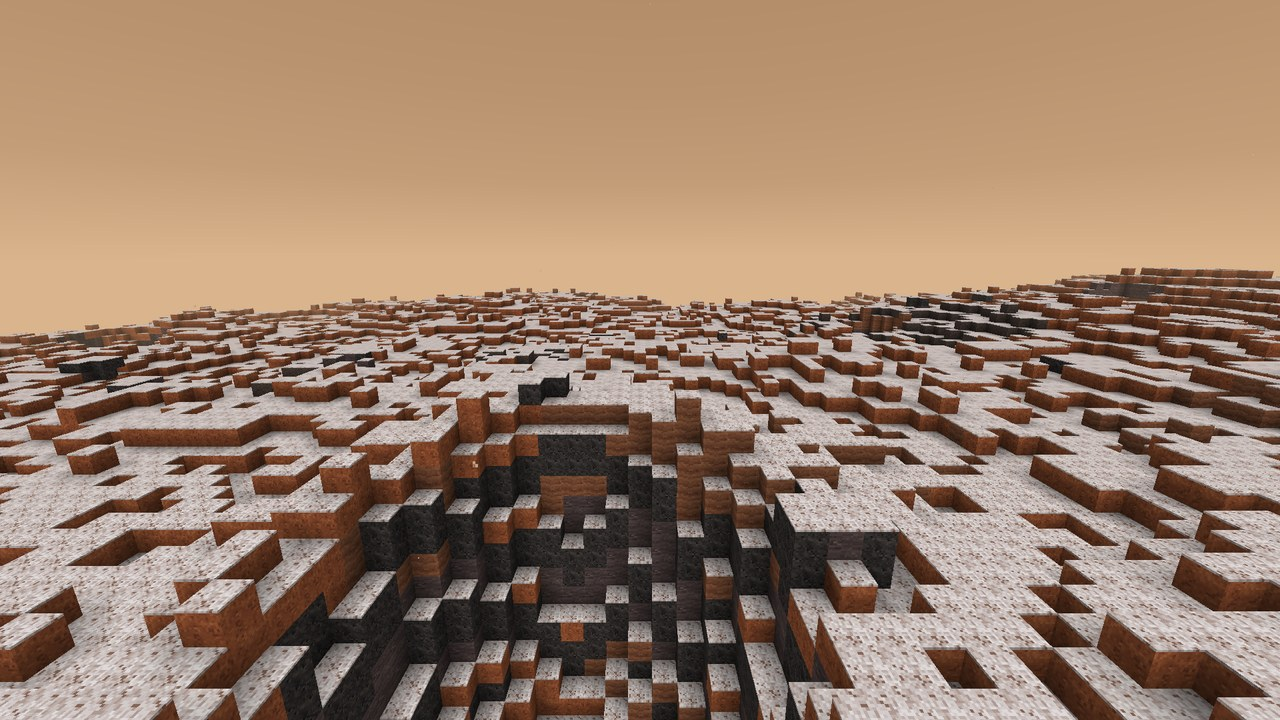
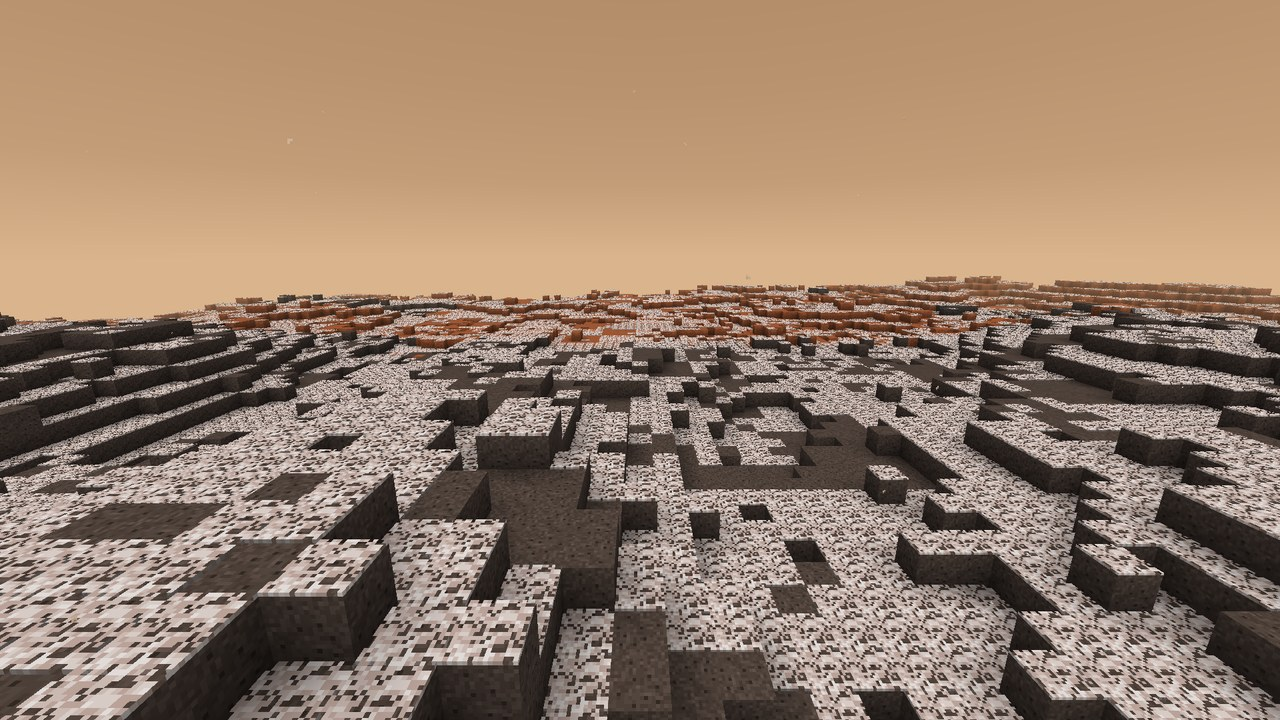
Seasonal frost: thin dusty-pink coat, patchy at the cap edge
The frost layer gets its own cutout texture: pale pink, dusty crystals
with the ground showing through. Cover now thickens from sparse patches
(30 %) at the cap edge to a full coat ten degrees inside it, with a
thinner scatter on nights; each column has a fixed patch value, so frost
grows and fades in clumps instead of flickering.

diff --git a/src/testmod/java/com/pizzaparker07/spacebreaker/testmod/mars/MarsLifeGameTests.java b/src/testmod/java/com/pizzaparker07/spacebreaker/testmod/mars/MarsLifeGameTests.java
@@ -427,11 +427,24 @@ public final class MarsLifeGameTests {
         helper.assertTrue(Math.abs(winterEdge - 52) < 1e-6, "northern winter cap reaches 52°, got " + winterEdge);
         helper.assertTrue(com.pizzaparker07.spacebreaker.content.mars.MarsSeasons.capEdge(270, false) == 82, "southern summer: residual cap only");
         helper.assertTrue(com.pizzaparker07.spacebreaker.content.mars.MarsSeasons.capEdge(90, false) < 53, "southern winter cap spreads too");
-        helper.assertTrue(com.pizzaparker07.spacebreaker.content.mars.MarsSeasons.wantsFrost(60, 270, false), "frost on the winter cap by day");
-        helper.assertFalse(com.pizzaparker07.spacebreaker.content.mars.MarsSeasons.wantsFrost(45, 270, false), "no daytime frost beyond the cap");
-        helper.assertTrue(com.pizzaparker07.spacebreaker.content.mars.MarsSeasons.wantsFrost(45, 270, true), "night frost beyond the cap");
-        helper.assertFalse(com.pizzaparker07.spacebreaker.content.mars.MarsSeasons.wantsFrost(60, 90, true), "none in northern summer");
-        helper.assertTrue(com.pizzaparker07.spacebreaker.content.mars.MarsSeasons.wantsFrost(-60, 90, false), "but on the southern winter cap");
+        var S = new Object() {
+            double cov(double lat, double ls, boolean night) {
+                return com.pizzaparker07.spacebreaker.content.mars.MarsSeasons.coverage(lat, ls, night);
+            }
+        };
+        helper.assertTrue(S.cov(75, 270, false) == 1, "deep in the winter cap the ground is fully frosted");
+        double edge = S.cov(53, 270, false);
+        helper.assertTrue(edge > 0.25 && edge < 0.5, "at the cap edge only patches, got " + edge);
+        helper.assertTrue(S.cov(45, 270, false) == 0, "no daytime frost beyond the cap");
+        double night = S.cov(45, 270, true);
+        helper.assertTrue(night > 0 && night < edge, "a thin night scatter beyond the cap, got " + night);
+        helper.assertTrue(S.cov(60, 90, true) == 0, "none in northern summer");
+        helper.assertTrue(S.cov(-70, 90, false) > 0.9, "but on the southern winter cap");
+        int frosted = 0;
+        for (int i = 0; i < 4000; i++) {
+            frosted += com.pizzaparker07.spacebreaker.content.mars.MarsSeasons.wantsFrost(i * 7, i * 13 % 997, 53, 270, false) ? 1 : 0;
+        }
+        helper.assertTrue(Math.abs(frosted / 4000.0 - edge) < 0.08, "patches cover about that share of the ground, got " + frosted / 4000.0);
         helper.assertTrue(com.pizzaparker07.spacebreaker.content.mars.MarsSeasons.season(275) == 3, "Ls 275 is northern winter");
 
         ServerLevel level = helper.getLevel();

diff --git a/src/main/java/com/pizzaparker07/spacebreaker/content/mars/MarsSeasons.java b/src/main/java/com/pizzaparker07/spacebreaker/content/mars/MarsSeasons.java
@@ -66,11 +66,39 @@ public final class MarsSeasons {
         return SUMMER_EDGE - WINTER_SPREAD * winter(ls, north);
     }
 
-    /** Whether frost belongs on open ground at this latitude (positive north). */
-    public static boolean wantsFrost(double latitude, double ls, boolean night) {
-        double edge = capEdge(ls, latitude >= 0);
-        double a = Math.abs(latitude);
-        return a >= edge || (night && a >= edge - NIGHT_REACH);
+    /** Degrees inside the cap edge over which the frost thickens from sparse patches to a full cover. */
+    public static final double THICKEN = 10;
+    /** Share of the ground frosted right at the cap edge. */
+    public static final double EDGE_COVER = 0.3;
+
+    /**
+     * Share of the open ground (0..1) that frost covers at this latitude (positive north): full well inside the cap,
+     * patchy at its edge, and on nights a thin scatter reaching {@link #NIGHT_REACH} beyond it.
+     */
+    public static double coverage(double latitude, double ls, boolean night) {
+        double depth = Math.abs(latitude) - capEdge(ls, latitude >= 0);
+        if (depth >= 0) {
+            return EDGE_COVER + (1 - EDGE_COVER) * Mth.clamp(depth / THICKEN, 0, 1);
+        }
+        return night && depth > -NIGHT_REACH ? EDGE_COVER * (1 + depth / NIGHT_REACH) : 0;
+    }
+
+    /** A fixed 0..1 value per column, clumped into patches a few blocks wide, so frost forms and fades in patches. */
+    public static double patch(int x, int z) {
+        double coarse = hash(Math.floorDiv(x, 4), Math.floorDiv(z, 4));
+        return 0.7 * coarse + 0.3 * hash(x, z);
+    }
+
+    private static double hash(int x, int z) {
+        long h = x * 0x9E3779B97F4A7C15L ^ z * 0xC2B2AE3D27D4EB4FL;
+        h = (h ^ (h >>> 31)) * 0xBF58476D1CE4E5B9L;
+        h ^= h >>> 29;
+        return (h >>> 11) * 0x1.0p-53;
+    }
+
+    /** Whether frost belongs on the open ground of this column. */
+    public static boolean wantsFrost(int x, int z, double latitude, double ls, boolean night) {
+        return patch(x, z) < coverage(latitude, ls, night);
     }
 
     /** Season index 0..3 (northern spring, summer, autumn, winter) for announcements. */
@@ -105,7 +133,7 @@ public final class MarsSeasons {
                     continue;
                 }
                 double lat = MarsClimate.latitude(level, new BlockPos(x, 0, z));
-                updateColumn(level, x, z, wantsFrost(lat, ls, night));
+                updateColumn(level, x, z, wantsFrost(x, z, lat, ls, night));
             }
         }
     }

diff --git a/tools/textures/modules/mars.py b/tools/textures/modules/mars.py
@@ -122,6 +122,27 @@ def co2_frost(v=0):
     return cv
 
 
+# Seasonal frost layer: a thin, dusty, faintly pink coat of CO2 crystals, ground showing through between them.
+FROST_LAYER = ramp('#c7aea4', '#d8c6be', '#e6dad4', '#f1ebe7')
+
+
+def co2_frost_layer():
+    """Thin seasonal frost (cutout): clumped pale-pink crystals with about a quarter of the ground showing through."""
+    f = blend((white(1911), 0.45), (clustered(16, 16, 1912, passes=1), 0.55))
+    cv = Canvas(16, 16)
+    vals = sorted(f[y][x] for y in range(16) for x in range(16))
+    gap = vals[int(len(vals) * 0.26)]
+    steps = [vals[int(len(vals) * q)] for q in (0.5, 0.75, 0.92)]
+    for y in range(16):
+        for x in range(16):
+            v = f[y][x]
+            if v < gap:
+                continue  # bare ground shows through
+            tone = sum(1 for t in steps if v >= t)
+            cv[x, y] = FROST_LAYER[tone] + (255,)
+    return cv
+
+
 def prints(r):
     """Footprint tones (pit shadow, tread dark, tread light, lit wall, rim lit, rim shade) from a 6-tone ramp."""
     return r[0], r[1], r[2], r[4], r[5], r[2]
@@ -386,6 +407,7 @@ def export(save):
         save(fn(1), 'block', name + '_1', dust_spec)
         for side in ('left', 'right'):
             save(footprint(base, prints(r), side), 'block', f'{name}_footprint_{side}', (22, 10, 64, None))
+    save(co2_frost_layer(), 'block', 'co2_frost_layer', (60, 12, 40, None))
     save(martian_sand(), 'block', 'martian_sand', dust_spec)
     save(olivine_sand(), 'block', 'olivine_sand', (30, 14, 50, None))
     save(martian_basalt(), 'block', 'martian_basalt', rock)

diff --git a/src/testmod/java/com/pizzaparker07/spacebreaker/testmod/showcase/MarsFrostScenario.java b/src/testmod/java/com/pizzaparker07/spacebreaker/testmod/showcase/MarsFrostScenario.java
@@ -18,9 +18,9 @@ import java.util.ArrayList;
 import java.util.List;
 import java.util.function.Consumer;
 
-/** The northern plains at about 60°N: frosted over in northern winter, bare again in summer. */
+/** The northern plains near the winter cap edge: frost thick toward the pole, thinning to patches toward the edge; bare in summer. */
 final class MarsFrostScenario implements ShowcaseScenario {
-    private static final double LATITUDE = 60;
+    private static final double LATITUDE = 57;
     private static final int R = 112;
     private PlanetTerrain terrain;
 
@@ -56,7 +56,7 @@ final class MarsFrostScenario implements ShowcaseScenario {
             for (int x = -R; x <= R; x++) {
                 for (int z = z0 - R; z <= z0 + R; z++) {
                     double lat = MarsClimate.latitude(level, new BlockPos(x, 0, z));
-                    MarsSeasons.updateColumn(level, x, z, MarsSeasons.wantsFrost(lat, ls, false));
+                    MarsSeasons.updateColumn(level, x, z, MarsSeasons.wantsFrost(x, z, lat, ls, false));
                 }
             }
         };

diff --git a/docs/CONTENT.md b/docs/CONTENT.md
@@ -148,7 +148,7 @@ Her içerik paketi gerçek istemcide vitrin dünyasında fotoğraflanır; onayda
 | 🎨 | Toz fırtınaları | seviye başına kayıtlı, sise ve GUI katmanında toz tonu (shader güvenli), uçuşan toz, %85 daha az güneş, kutuplar daha soğuk; doğal fırtınadan 2 dk önce ufuk uyarısı, geliş ve diniş mesajları (EN+TR); `/spacebreaker duststorm start|forecast|stop` |
 | 🎨 | Toz hortumları (Dust Whirl) | iyi havada, öğleden sonra ova ve kumullarda oyuncu yakınında ara sıra (oyuncu başına ≤2); yavaş dolaşan, tabanda dar yukarı genişleyen yarı saydam huni (yalnızca istemci parçacıkları, shader güvenli), tabanda toz halkası; zararsız, eşya ve oyuncuyu hafifçe savurur, geçtiği güneş panellerini temizler; sunucuda kaydedilmeyen hafif varlık, 128 blokta oyuncu yoksa silinir |
 | 🎨 | Güneş paneli tozlanması (Mars) | Mars toz kaynağı: sakin havada ~3 günde tam örtü, fırtınada ×6 (`DustLoad.rate`); verim %100→%60 ve toz katmanı industry'nin panelinde; hortum veya fırça (sağ tık) temizler; Çevre Sensörü toz hızını gösterir |
-| 🎨 | Mevsimler ve CO₂ kırağısı | sıkıştırılmış Mars yılı (24 sol, Ls); kış yarıküresinde kutup başlığı ~52°'ye kadar yayılır, gecesi 12° daha ötede ince Mevsimsel CO₂ Kırağısı katmanı, ilkbaharda süblimleşir (alttaki blok bozulmaz; kırılınca iz bırakmaz); oyuncu başına tick başına 4 rastgele sütun, 64 blok içinde, yalnızca yüklü chunk'lar; mevsim değişince mesaj (EN+TR); `/spacebreaker season <Ls>` |
+| 🎨 | Mevsimler ve CO₂ kırağısı | sıkıştırılmış Mars yılı (24 sol, Ls); kış yarıküresinde kutup başlığı ~52°'ye kadar yayılır, gecesi 12° daha ötede ince Mevsimsel CO₂ Kırağısı katmanı (yarı açık, pembemsi tozlu doku; kenarda %30 yamalı, 10° içeride tam örtü), ilkbaharda süblimleşir (alttaki blok bozulmaz; kırılınca iz bırakmaz); oyuncu başına tick başına 4 rastgele sütun, 64 blok içinde, yalnızca yüklü chunk'lar; mevsim değişince mesaj (EN+TR); `/spacebreaker season <Ls>` |
 | 🎨 | Zindanlar | Terk Edilmiş Mars Araştırma İstasyonu (sera, ISRU tesisi, garaj, sondaj kulesi), Antik Gömülü Nehir Yatağı (katmanlı mağara, kil yatak, düşmüş sonda) |
 | 🎨 | Kayıp İniş Aracı | ovalarda seyrek (≈1/km, gezici yolculuğu): eğik altıgen gövde, kırık bacak, gömülü ısı kalkanı, toza serilmiş turuncu-beyaz paraşüt; veri kaydedicide uzay sondaları / Mars jeolojisi / derin uzay ağı diski, deney verisi |
 | 🎨 | Lav tüpleri | volkan ve ova altında doğal tüneller (bazalt kabuk, cilalı lav astarı, olivin kumlu taban), çökmüş ışıklıklardan girilir; 5+ blok tavan radyasyonu 1/32'nin altına düşürür: hazır üs yeri |
